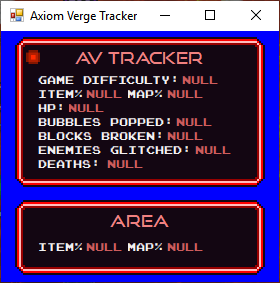
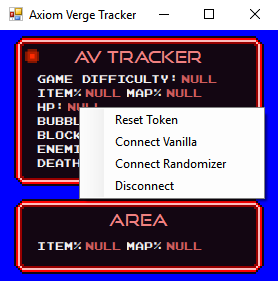
Update instructions

diff --git a/frontend/src/pages/MyAccount.jsx b/frontend/src/pages/MyAccount.jsx
@@ -100,7 +100,8 @@ const MyAccount = () => {
             <Spacer v={16} />
 
             <Typography variant="subtitle1">
-              3. Open Axiom Verge and click on the red dot in the tracker
+              3. Open Axiom Verge and right click on the tracker. Choose vanilla for the base game
+              and randomizer for the randomized version.
             </Typography>
 
             <Spacer v={16} />
@@ -120,8 +121,7 @@ const MyAccount = () => {
             <Spacer v={16} />
 
             <Typography variant="subtitle1">
-              5. Add your widget URL as a browser source in OBS <br />
-              (min-width 272px)
+              5. Add your widget URL as a browser source in OBS
             </Typography>
 
             <Spacer v={16} />
